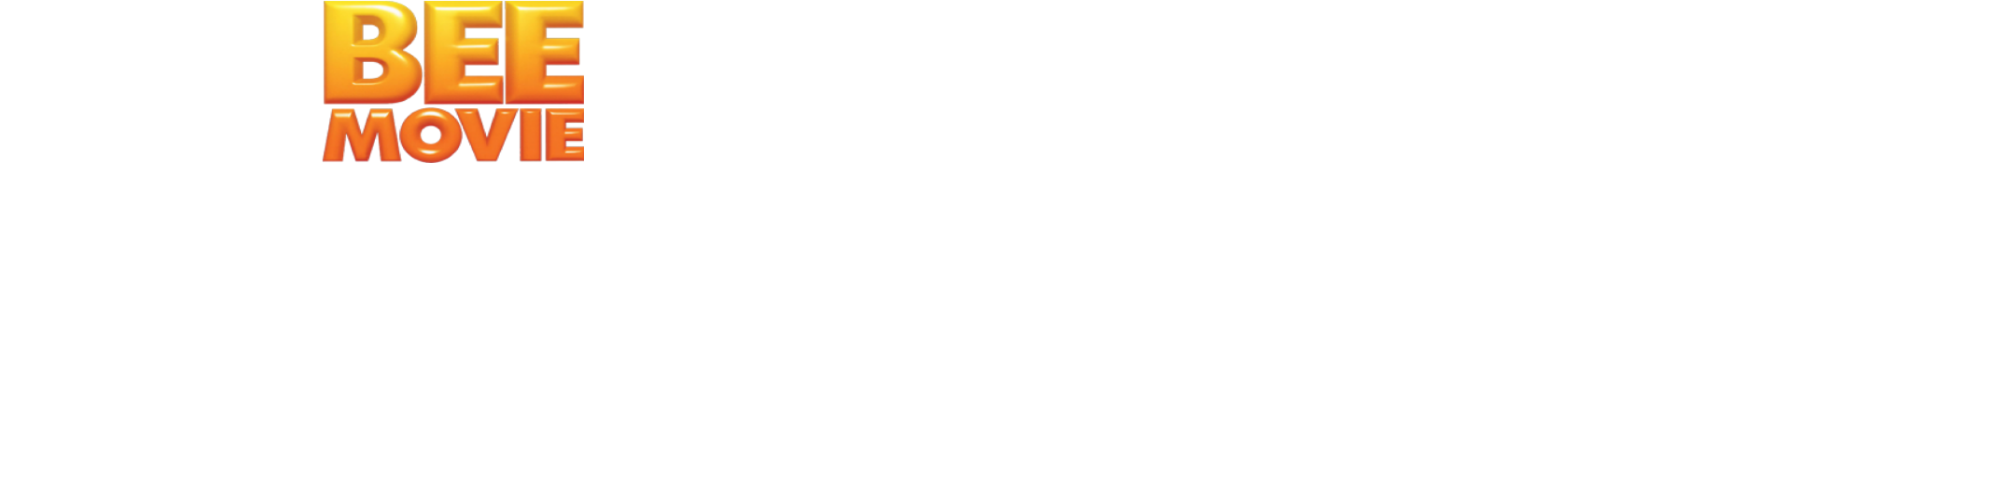
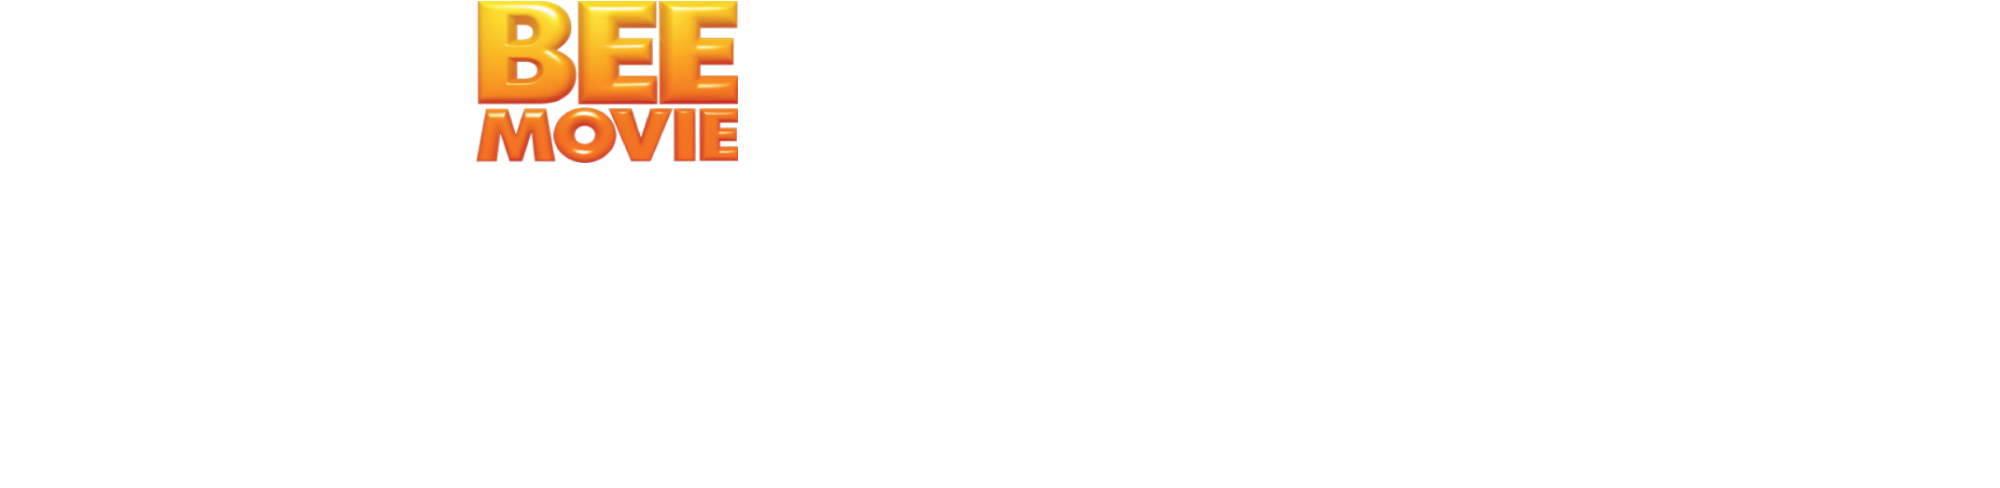
FINALLY the responsive site done

Changed region(s): [[0.155, 0.0, 0.372, 0.3381]]

diff --git a/ResponsiveSite.html b/ResponsiveSite.html
@@ -1,5 +1,4 @@
 <!DOCTYPE html>
-<html lang="en">
 <head>
     <meta charset="UTF-8">
     <link rel="stylesheet" type="text/css" href="ResponsiveSite.css">
@@ -13,32 +12,35 @@
     </div>
     -->
     <picture>
-        <source media="(max-width: 768px)" srcset="BeemovieTablet.png">
+        <source media="(max-width: 768px)" srcset="BeemovieMobile.png">
+        <source media="(max-width: 1200px)" srcset="BeemovieTablet.png">
         <img src="Beemovie.png" alt="Shite beemovie logo">
     </picture>
 
 </div>
+<div class="nav">
+    <div class="ul">
+        <div class="li">
 <ul>
 <li><a href="Burton%20form.html">Burton form</a></li>
+    <li>&nbsp;&nbsp;&nbsp;&nbsp;&nbsp;&nbsp;&nbsp;&nbsp;</li>
 <li><a href="https://web.njit.edu/~cm395/theBeeMovieScript/">Mijn Lorem Ipsum</a> </li>
+    <li>&nbsp;&nbsp;&nbsp;&nbsp;&nbsp;&nbsp;&nbsp;&nbsp;</li>
 <li><a href="index.html">Home of homes</a> </li>
+    <li>&nbsp;&nbsp;&nbsp;&nbsp;&nbsp;&nbsp;&nbsp;&nbsp;</li>
 <li><a href="Tabellen.html">Tabellen</a> </li>
+    <li>&nbsp;&nbsp;&nbsp;&nbsp;&nbsp;&nbsp;&nbsp;&nbsp;</li>
 <li><a href="https://en.wikipedia.org/wiki/Bee_Movie">BEEEES</a> </li>
-    <li></li><li></li><li></li><li></li><li></li><li></li>
+<li>&nbsp;&nbsp;&nbsp;&nbsp;&nbsp;&nbsp;&nbsp;&nbsp;&nbsp;&nbsp;&nbsp;&nbsp;&nbsp;&nbsp;&nbsp;&nbsp;&nbsp;&nbsp;&nbsp;&nbsp;&nbsp;&nbsp;&nbsp;&nbsp;&nbsp;&nbsp;&nbsp;&nbsp;&nbsp;&nbsp;&nbsp;&nbsp;&nbsp;&nbsp;&nbsp;&nbsp;&nbsp;&nbsp;&nbsp;&nbsp;&nbsp;&nbsp;&nbsp;&nbsp;&nbsp;&nbsp;&nbsp;&nbsp;&nbsp;&nbsp;&nbsp;&nbsp;&nbsp;&nbsp;&nbsp;&nbsp;&nbsp;&nbsp;&nbsp;&nbsp;&nbsp;&nbsp;&nbsp;&nbsp;&nbsp;&nbsp;&nbsp;&nbsp;&nbsp;&nbsp;&nbsp;&nbsp;&nbsp;&nbsp;&nbsp;&nbsp;&nbsp;&nbsp;&nbsp;&nbsp;&nbsp;&nbsp;&nbsp;&nbsp;&nbsp;&nbsp;&nbsp;&nbsp;&nbsp;&nbsp;&nbsp;&nbsp;&nbsp;&nbsp;&nbsp;&nbsp;&nbsp;&nbsp;&nbsp;&nbsp;&nbsp;&nbsp;&nbsp;&nbsp;&nbsp;&nbsp;&nbsp;&nbsp;&nbsp;&nbsp;&nbsp;&nbsp;&nbsp;&nbsp;&nbsp;&nbsp;&nbsp;&nbsp;&nbsp;&nbsp;&nbsp;&nbsp;&nbsp;&nbsp;&nbsp;&nbsp;&nbsp;&nbsp;&nbsp;&nbsp;&nbsp;&nbsp;&nbsp;&nbsp;&nbsp;&nbsp;&nbsp;&nbsp;&nbsp;&nbsp;&nbsp;&nbsp;&nbsp;&nbsp;&nbsp;&nbsp;&nbsp;&nbsp;&nbsp;&nbsp;&nbsp;&nbsp;&nbsp;&nbsp;&nbsp;&nbsp;&nbsp;&nbsp;&nbsp;&nbsp;&nbsp;&nbsp;&nbsp;&nbsp;&nbsp;&nbsp;&nbsp;&nbsp;&nbsp;&nbsp;&nbsp;&nbsp;&nbsp;&nbsp;&nbsp;&nbsp;&nbsp;&nbsp;&nbsp;&nbsp;&nbsp;&nbsp;&nbsp;&nbsp;&nbsp;&nbsp;&nbsp;&nbsp;&nbsp;&nbsp;&nbsp;&nbsp;&nbsp;&nbsp;&nbsp;&nbsp;&nbsp;&nbsp;&nbsp;&nbsp;&nbsp;&nbsp;&nbsp;&nbsp;&nbsp;&nbsp;&nbsp;&nbsp;&nbsp;&nbsp;&nbsp;&nbsp;&nbsp;&nbsp;&nbsp;&nbsp;&nbsp;&nbsp;&nbsp;&nbsp;&nbsp;&nbsp;&nbsp;&nbsp;&nbsp;&nbsp;&nbsp;&nbsp;&nbsp;&nbsp;&nbsp;&nbsp;&nbsp;&nbsp;&nbsp;&nbsp;&nbsp;&nbsp;&nbsp;&nbsp;&nbsp;&nbsp;&nbsp;&nbsp;&nbsp;&nbsp;&nbsp;&nbsp;&nbsp;&nbsp;&nbsp;&nbsp;&nbsp;&nbsp;&nbsp;&nbsp;&nbsp;&nbsp;&nbsp;&nbsp;&nbsp;&nbsp;&nbsp;&nbsp;&nbsp;&nbsp;&nbsp;&nbsp;&nbsp;&nbsp;&nbsp;&nbsp;&nbsp;&nbsp;&nbsp;&nbsp;&nbsp;&nbsp;&nbsp;&nbsp;&nbsp;&nbsp;&nbsp;&nbsp;&nbsp;&nbsp;&nbsp;&nbsp;&nbsp;&nbsp;&nbsp;&nbsp;&nbsp;&nbsp;&nbsp;&nbsp;&nbsp;&nbsp;&nbsp;&nbsp;&nbsp;&nbsp;&nbsp;&nbsp;&nbsp;&nbsp;&nbsp;&nbsp;&nbsp;&nbsp;&nbsp;&nbsp;&nbsp;&nbsp;&nbsp;&nbsp;&nbsp;&nbsp;&nbsp;&nbsp;&nbsp;&nbsp;&nbsp;&nbsp;&nbsp;&nbsp;&nbsp;&nbsp;&nbsp;&nbsp;&nbsp;&nbsp;&nbsp;&nbsp;&nbsp;&nbsp;&nbsp;&nbsp;&nbsp;&nbsp;&nbsp;&nbsp;&nbsp;&nbsp;&nbsp;&nbsp;&nbsp;&nbsp;&nbsp;&nbsp;&nbsp;&nbsp;&nbsp;&nbsp;&nbsp;&nbsp;&nbsp;&nbsp;&nbsp;&nbsp;&nbsp;&nbsp;&nbsp;&nbsp;&nbsp;&nbsp;&nbsp;&nbsp;&nbsp;&nbsp;&nbsp;&nbsp;&nbsp;&nbsp;&nbsp;&nbsp;&nbsp;&nbsp;&nbsp;&nbsp;&nbsp;&nbsp;&nbsp;&nbsp;&nbsp;&nbsp;&nbsp;&nbsp;&nbsp;&nbsp;&nbsp;&nbsp;&nbsp;&nbsp;&nbsp;&nbsp;&nbsp;&nbsp;&nbsp;&nbsp;&nbsp;&nbsp;&nbsp;&nbsp;&nbsp;&nbsp;&nbsp;&nbsp;&nbsp;&nbsp;&nbsp;&nbsp;&nbsp;&nbsp;&nbsp;&nbsp;&nbsp;&nbsp;&nbsp;&nbsp;&nbsp;&nbsp;&nbsp;&nbsp;&nbsp;&nbsp;&nbsp;&nbsp;&nbsp;&nbsp;&nbsp;&nbsp;&nbsp;&nbsp;&nbsp;&nbsp;&nbsp;&nbsp;&nbsp;&nbsp;&nbsp;&nbsp;&nbsp;&nbsp;&nbsp;&nbsp;&nbsp;&nbsp;&nbsp;&nbsp;&nbsp;&nbsp;&nbsp;&nbsp;&nbsp;&nbsp;&nbsp;&nbsp;&nbsp;&nbsp;&nbsp;&nbsp;&nbsp;&nbsp;&nbsp;&nbsp;&nbsp;&nbsp;&nbsp;&nbsp;&nbsp;&nbsp;&nbsp;&nbsp;&nbsp;&nbsp;&nbsp;&nbsp;&nbsp;&nbsp;&nbsp;&nbsp;&nbsp;&nbsp;&nbsp;&nbsp;&nbsp;&nbsp;&nbsp;&nbsp;&nbsp;&nbsp;&nbsp;&nbsp;&nbsp;&nbsp;&nbsp;&nbsp;&nbsp;&nbsp;&nbsp;&nbsp;&nbsp;&nbsp;&nbsp;&nbsp;&nbsp;&nbsp;&nbsp;&nbsp;&nbsp;&nbsp;&nbsp;&nbsp;&nbsp;&nbsp;&nbsp;&nbsp;</li>
     </ul>
-<div class=“table-header-cell”>
-    <a href="Burton%20form.html">Burton form</a>
+        </div>
+    </div>
 </div>
-<div class=“table-header-cell”>
-    <a href="index.html">Home of homes</a>
-</div>
-<div class=“table-header-cell”>
-    <a href="Tabellen.html">Tabellen</a>
-</div>
-<div class=“table-header-cell”>
-    <a href="https://en.wikipedia.org/wiki/Bee_Movie">BEEEES</a>
-</div>
-
+<div class="mobileNav"><a href="Burton%20form.html">Burton form</a></div>
+<div class="mobileNav2"><a href="https://web.njit.edu/~cm395/theBeeMovieScript/">Mijn Lorem Ipsum</a></div>
+<div class="mobileNav3"><a href="index.html">Home of homes</a></div>
+<div class="mobileNav4"><a href="Tabellen.html">Tabellen</a></div>
+    <div class="mobileNav5"><a href="https://en.wikipedia.org/wiki/Bee_Movie">BEEEES</a></div>
 
 <div class="bar1">
     <h3>BEEEES</h3>
@@ -343,4 +345,3 @@
         Very proud.</p>
 </div>
 </body>
-</html>

diff --git a/ResponsiveSite.css b/ResponsiveSite.css
@@ -1,10 +1,10 @@
 /* Small devices (portrait tablets and large phones, 600px and up) */
-@media only screen and (min-width: 600px) {
+@media all and (min-width: 600px) {
     body{
         background-color: chartreuse;
         display: grid;
         grid-template-columns: 1fr 4fr;
-        grid-template-rows: 160px;
+        grid-template-rows: 160px 50px 50px 50px 50px 50px;
         grid-column-gap: 50px;
         margin: 0;
     }
@@ -17,43 +17,63 @@
     ul {
         margin: 0;
         padding:0px;
-        grid-column: 1/20;
+        grid-column: 1/5;
         display: flex;
         list-style: none;
     }
     li {
-        grid-column: 1/20;
+        grid-column: 1/5;
         flex: 100%;
         text-align: center;
         background-color: grey;
     }
-    .coolstuff{}
-
-    .table-header-cell{
-        display: table-cell;
+    .nav{display: none; visibility: hidden}
+    .mobileNav{
         background-color: gray;
-        padding: 10px;
-        text-align: justify;
-        border-bottom: 1px solid black;
+        grid-row:2;
+        grid-column: span 30;
+    }
+    .mobileNav2{
+        background-color: gray;
+        grid-row:3;
+        grid-column: span 30;
+    }
+    .mobileNav3{
+        background-color: gray;
+        grid-row:4;
+        grid-column: span 30;
+    }
+    .mobileNav4{
+        background-color: gray;
+        grid-row:5;
+        grid-column: span 30;
+    }
+    .mobileNav5{
+        background-color: gray;
+        grid-row:6;
+        grid-column: span 30;
     }
 
-    .top-bar{grid-column: 1/5; background-color: #66ffff;}
+
+
+    .top-bar{grid-column: 1/50; background-color: #66ffff; grid-row: 1}
 
     .bar1 {grid-column: 1}
 
-    .bar2 {grid-column: 2}
+    .bar2 {grid-column: 1}
 
-    .bar3{grid-column: 2}
+    .bar3{grid-column: 1}
 }
 
 /* Medium devices (landscape tablets, 768px and up) */
-@media only screen and (min-width: 768px) {
+@media only screen and (min-width: 800px) {
     body{
         background-color: crimson;
         display: grid;
         grid-template-columns: 1fr 4fr;
         grid-template-rows: 160px 50px;
-        grid-column-gap: 50px;
+        grid-template-columns: 200px 400px;
+        grid-column-gap: 10px;
         margin: 0;
     }
     .img{
@@ -62,7 +82,14 @@
     }
     a {text-decoration: none;color: white}
 
-    ul {
+
+    .li {
+        grid-column: span 100;
+        flex: 100%;
+        text-align: center;
+        background-color: grey;
+    }
+    .ul {
         margin: 0;
         padding:0px;
         grid-column: 1/20;
@@ -70,13 +97,12 @@
         justify-content: space-around;
         list-style: none;
     }
-    li {
-
-        flex: 100%;
-        text-align: center;
-        background-color: grey;
-    }
-
+    .nav{display: flex; visibility: visible}
+    .mobileNav{display: none; visibility: hidden}
+    .mobileNav2{display: none; visibility: hidden}
+    .mobileNav3{display: none; visibility: hidden}
+    .mobileNav4{display: none; visibility: hidden}
+    .mobileNav5{display: none; visibility: hidden}
     .coolstuff{display: none}
 
     .top-bar{grid-column: 1/20; background-color: #66ffff;}
@@ -85,7 +111,7 @@
 
     .bar2 {grid-column: 2}
 
-    .bar3{grid-column: 2}
+    .bar3{grid-column: 3}
 }
 
 /* Extra large devices (large laptops and desktops, 1200px and up) */
@@ -102,19 +128,24 @@
 
     a {text-decoration: none;color: white}
 
-    ul {
+    .ul {
         margin: 0;
         padding:0px;
-        grid-column: 1/20;
+        grid-column: span 10;
         display: flex;
         list-style: none;
     }
-    li {
-        grid-column: 1/40;
+    .li {
         flex: 100%;
         text-align: left;
         background-color: grey;
     }
+    .nav{visibility: visible}
+    .mobileNav{display: none; visibility: hidden}
+    .mobileNav2{display: none; visibility: hidden}
+    .mobileNav3{display: none; visibility: hidden}
+    .mobileNav4{display: none; visibility: hidden}
+    .mobileNav5{display: none; visibility: hidden}
     .top-bar{grid-column: 1/20; background-color: #66ffff;}
 
     .bar1 {grid-column: 1;}
